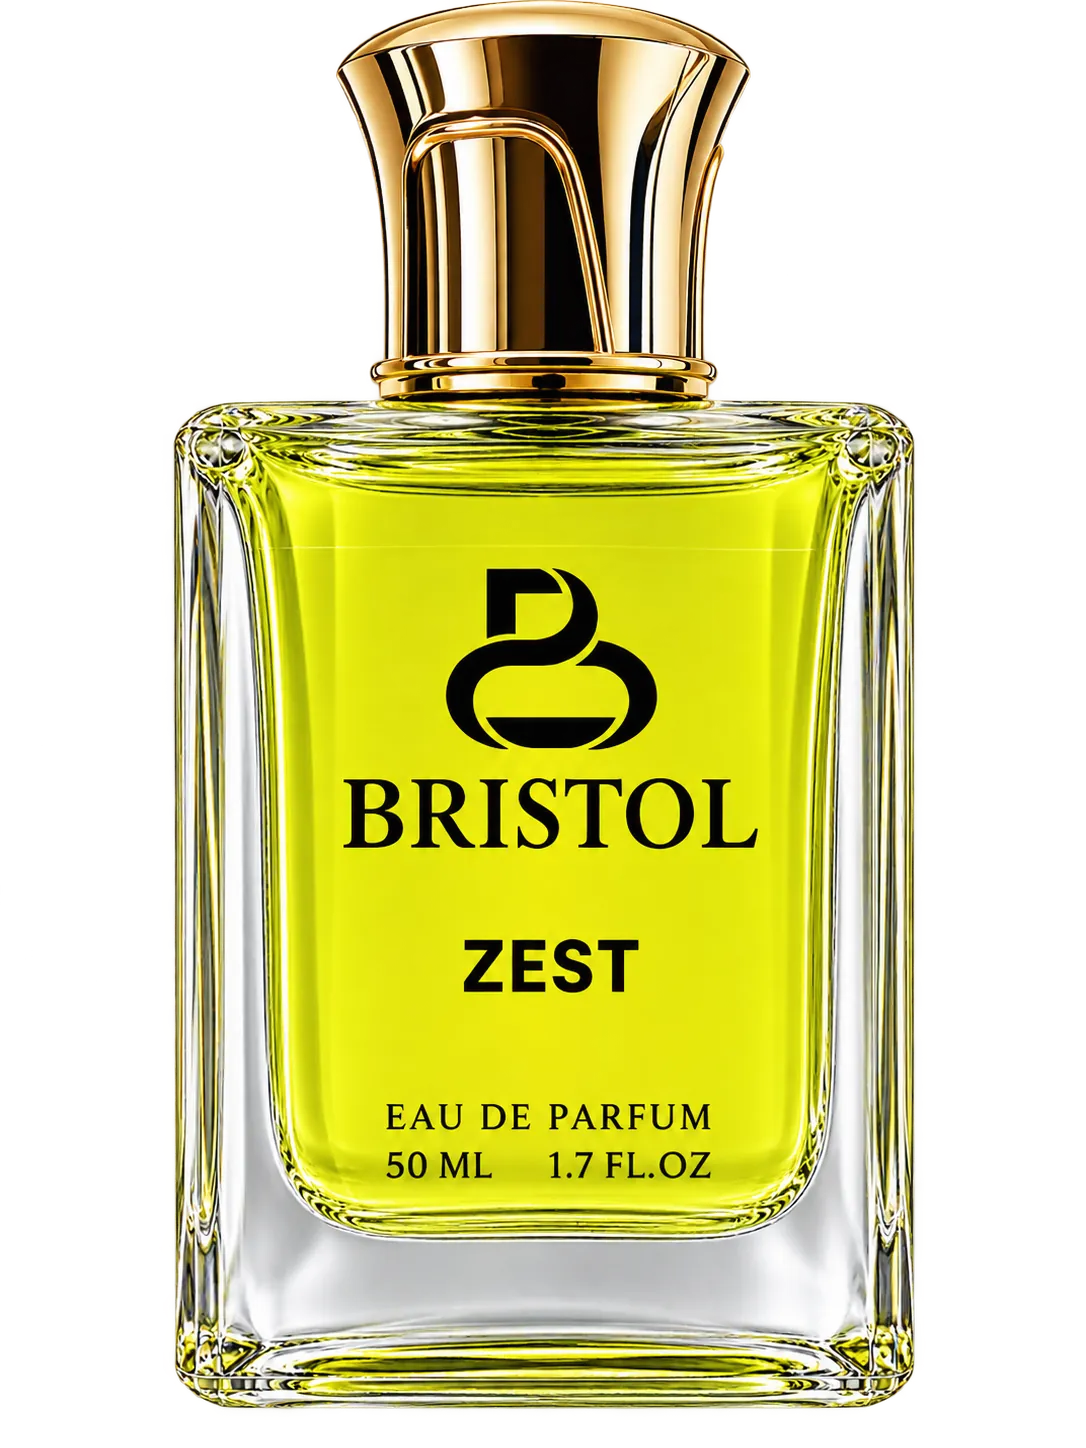
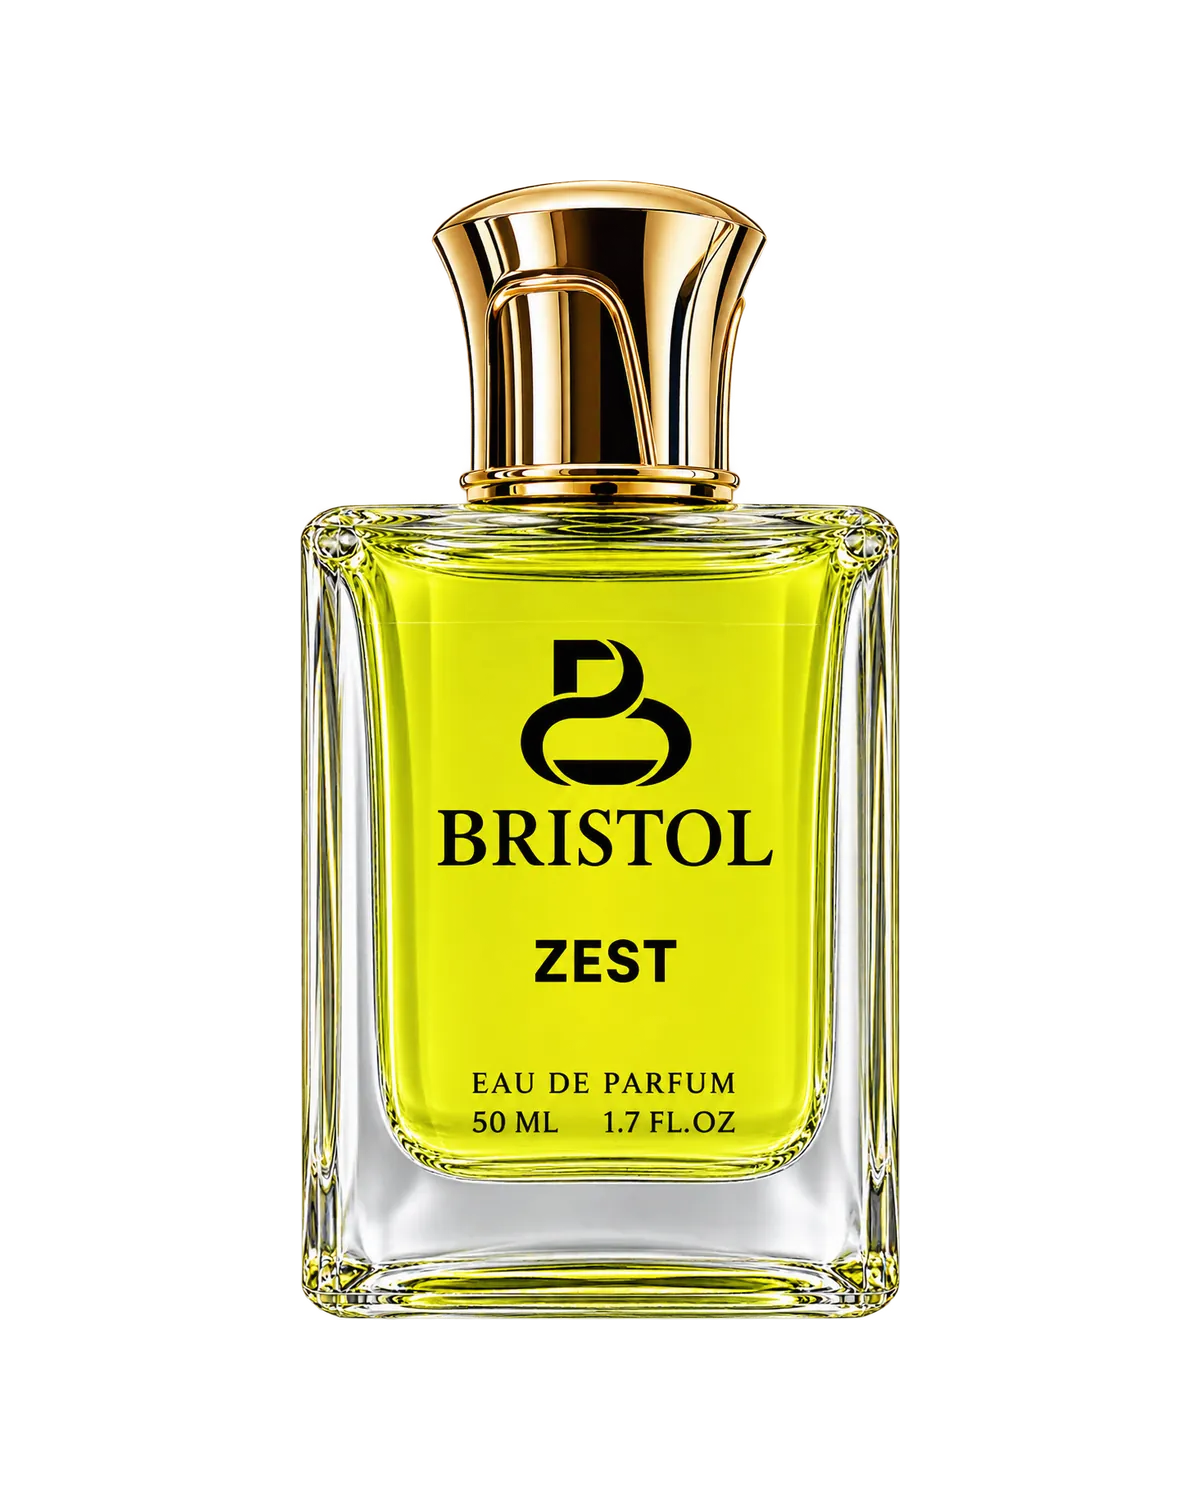
Product cards: main photos evened out to one bottle size on a 4:5 canvas
Claude-Session: https://claude.ai/code/session_01LvnarAE6nzY2X1RJq9yMqA

diff --git a/tools/optimize_images.py b/tools/optimize_images.py
@@ -1,12 +1,44 @@
 #!/usr/bin/env python3
 """Makes small WebP copies (400, 600, 800 and 1200 px wide) of every photo in images/uploads into images/opt.
 The website uses these instead of the original files, which can be several MB each.
+The FIRST photo of every product (the one on the shop cards) is also evened out: when it is a cut-out bottle on a transparent
+or plain light background, the empty space around the bottle is trimmed and the bottle is placed on a 4:5 canvas at one fixed size,
+so every product looks the same size on the site, on computers and phones. The original file is never changed.
 Names: /images/opt/<lowercase-name-with-dashes>-<width>.webp. Run by the GitHub Action whenever a photo is added or changed."""
 import os, re, glob, json, hashlib
 from urllib.parse import unquote
-from PIL import Image
+from PIL import Image, ImageChops
 SRC, OUT, WIDTHS = 'images/uploads', 'images/opt', (400, 600, 800, 1200)
 def slug(name): return re.sub(r'[^a-z0-9]+', '-', unquote(name).lower()).strip('-')
+NORM = 'even-v1'          # change this text to redo every evened-out photo
+CANVAS = (1200, 1500)     # 4:5, the shape of a product card
+FIT_H, FIT_W = 0.76, 0.74 # the bottle fills at most this share of the canvas height and width
+def main_photos():
+    out = set()
+    for f in glob.glob('data/products/*.json'):
+        try:
+            im = (json.load(open(f, encoding='utf8')).get('images') or [None])[0]
+            im = im.get('image') if isinstance(im, dict) else im
+            if im: out.add(os.path.basename(unquote(str(im))))
+        except Exception: pass
+    return out
+def even_out(im):
+    """Returns the bottle centred on the canvas at the fixed size, or None when the photo is not a cut-out on a plain background."""
+    rgba = im.convert('RGBA'); a = rgba.split()[3]
+    if a.getextrema()[0] < 128:                                   # transparent background
+        box = a.point(lambda v: 255 if v > 40 else 0).getbbox(); bg = (0, 0, 0, 0)
+    else:                                                          # plain light background: all four corners nearly the same light colour
+        w, h = rgba.size; cs = [rgba.getpixel(p)[:3] for p in ((2, 2), (w - 3, 2), (2, h - 3), (w - 3, h - 3))]
+        if min(min(c) for c in cs) < 225 or max(max(abs(c[i] - cs[0][i]) for i in range(3)) for c in cs) > 10: return None
+        diff = ImageChops.difference(rgba.convert('RGB'), Image.new('RGB', rgba.size, cs[0])).convert('L')
+        box = diff.point(lambda v: 255 if v > 16 else 0).getbbox(); bg = cs[0] + (255,)
+    if not box: return None
+    sub = rgba.crop(box); k = min(CANVAS[1] * FIT_H / sub.height, CANVAS[0] * FIT_W / sub.width)
+    sub = sub.resize((max(1, round(sub.width * k)), max(1, round(sub.height * k))), Image.LANCZOS)
+    out = Image.new('RGBA', CANVAS, bg); out.paste(sub, ((CANVAS[0] - sub.width) // 2, (CANVAS[1] - sub.height) // 2), sub if bg[3] == 0 else None)
+    if bg[3] == 0: out.paste(sub, ((CANVAS[0] - sub.width) // 2, (CANVAS[1] - sub.height) // 2))   # keep the soft transparent edges exactly
+    return out if bg[3] == 0 else out.convert('RGB')
+MAIN = main_photos()
 os.makedirs(OUT, exist_ok=True)
 stamp_file = os.path.join(OUT, 'stamps.json')
 stamps = json.load(open(stamp_file)) if os.path.exists(stamp_file) else {}
@@ -15,10 +47,13 @@ for f in sorted(glob.glob(SRC + '/*')):
     stem, ext = os.path.splitext(os.path.basename(f))
     if ext.lower() not in ('.png', '.jpg', '.jpeg'): continue
     s = slug(stem); assert s not in slugs, f'two photos give the same short name {s}: {f} and {slugs[s]}'; slugs[s] = f
-    h = hashlib.sha1(open(f, 'rb').read()).hexdigest(); seen.add(s)
+    h = hashlib.sha1(open(f, 'rb').read()).hexdigest() + ('|' + NORM if os.path.basename(f) in MAIN else ''); seen.add(s)
     if stamps.get(s) == h and all(os.path.exists(f'{OUT}/{s}-{w}.webp') for w in WIDTHS): continue
     im = Image.open(f); im.load()
     im = im.convert('RGBA' if ('A' in im.getbands() or im.mode == 'P' and 'transparency' in im.info) else 'RGB')
+    if os.path.basename(f) in MAIN:
+        ev = even_out(im)
+        if ev is not None: im = ev
     for w in WIDTHS:
         o = im if im.width <= w else im.resize((w, round(im.height * w / im.width)), Image.LANCZOS)
         o.save(f'{OUT}/{s}-{w}.webp', 'WEBP', quality=80, method=6)
